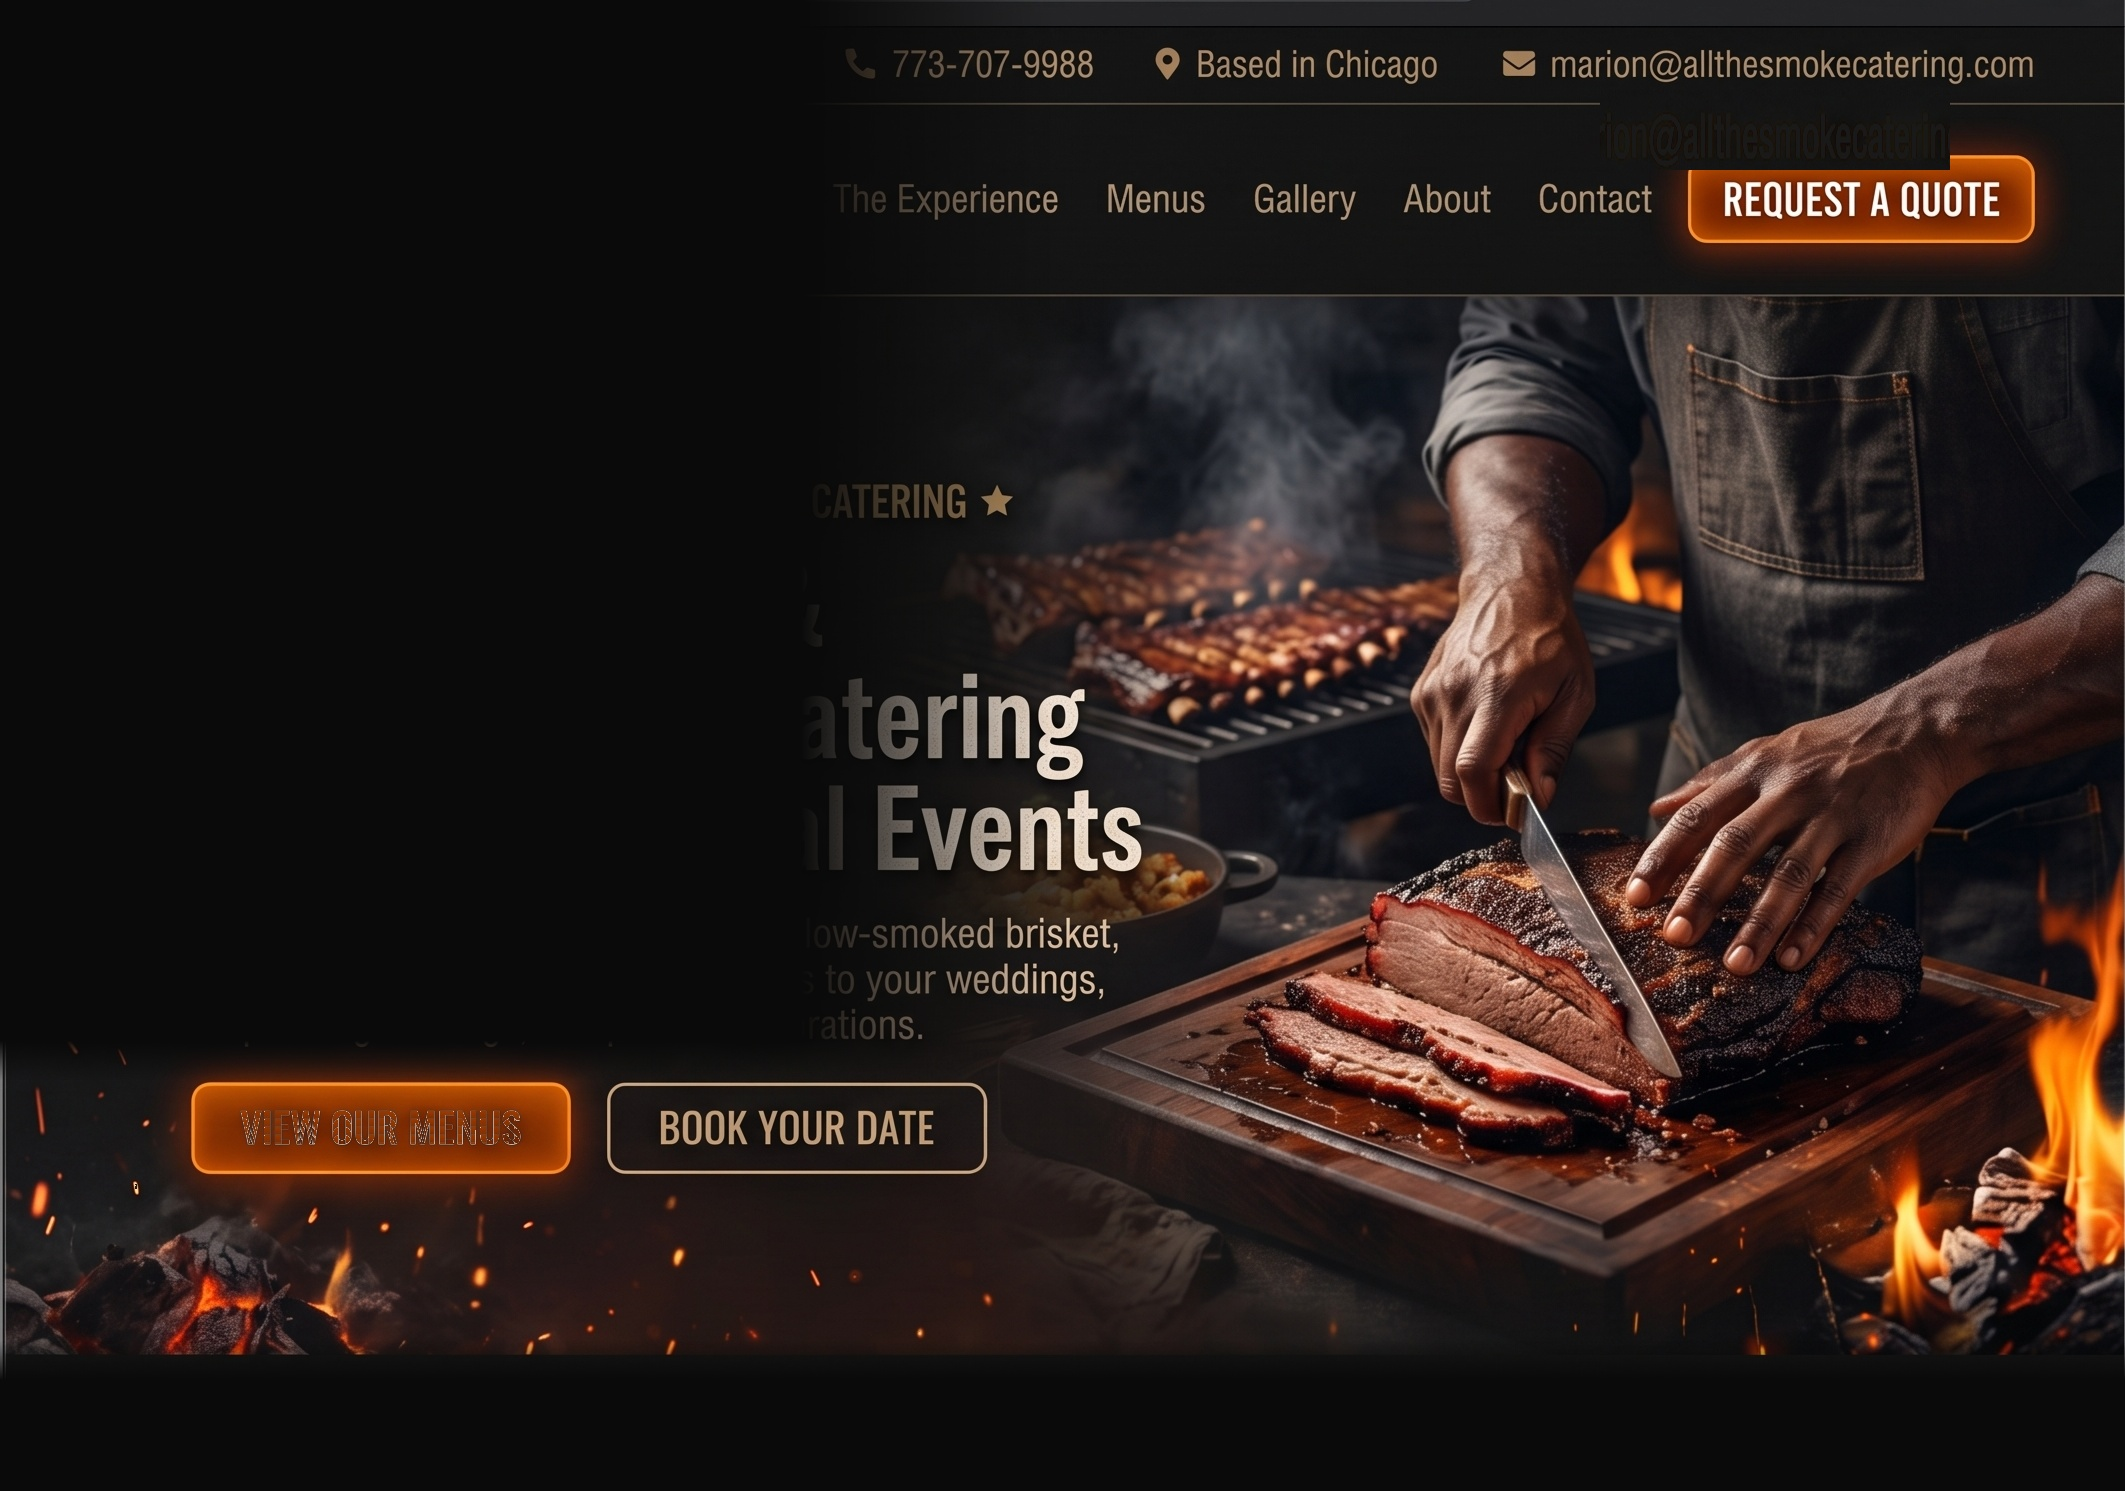
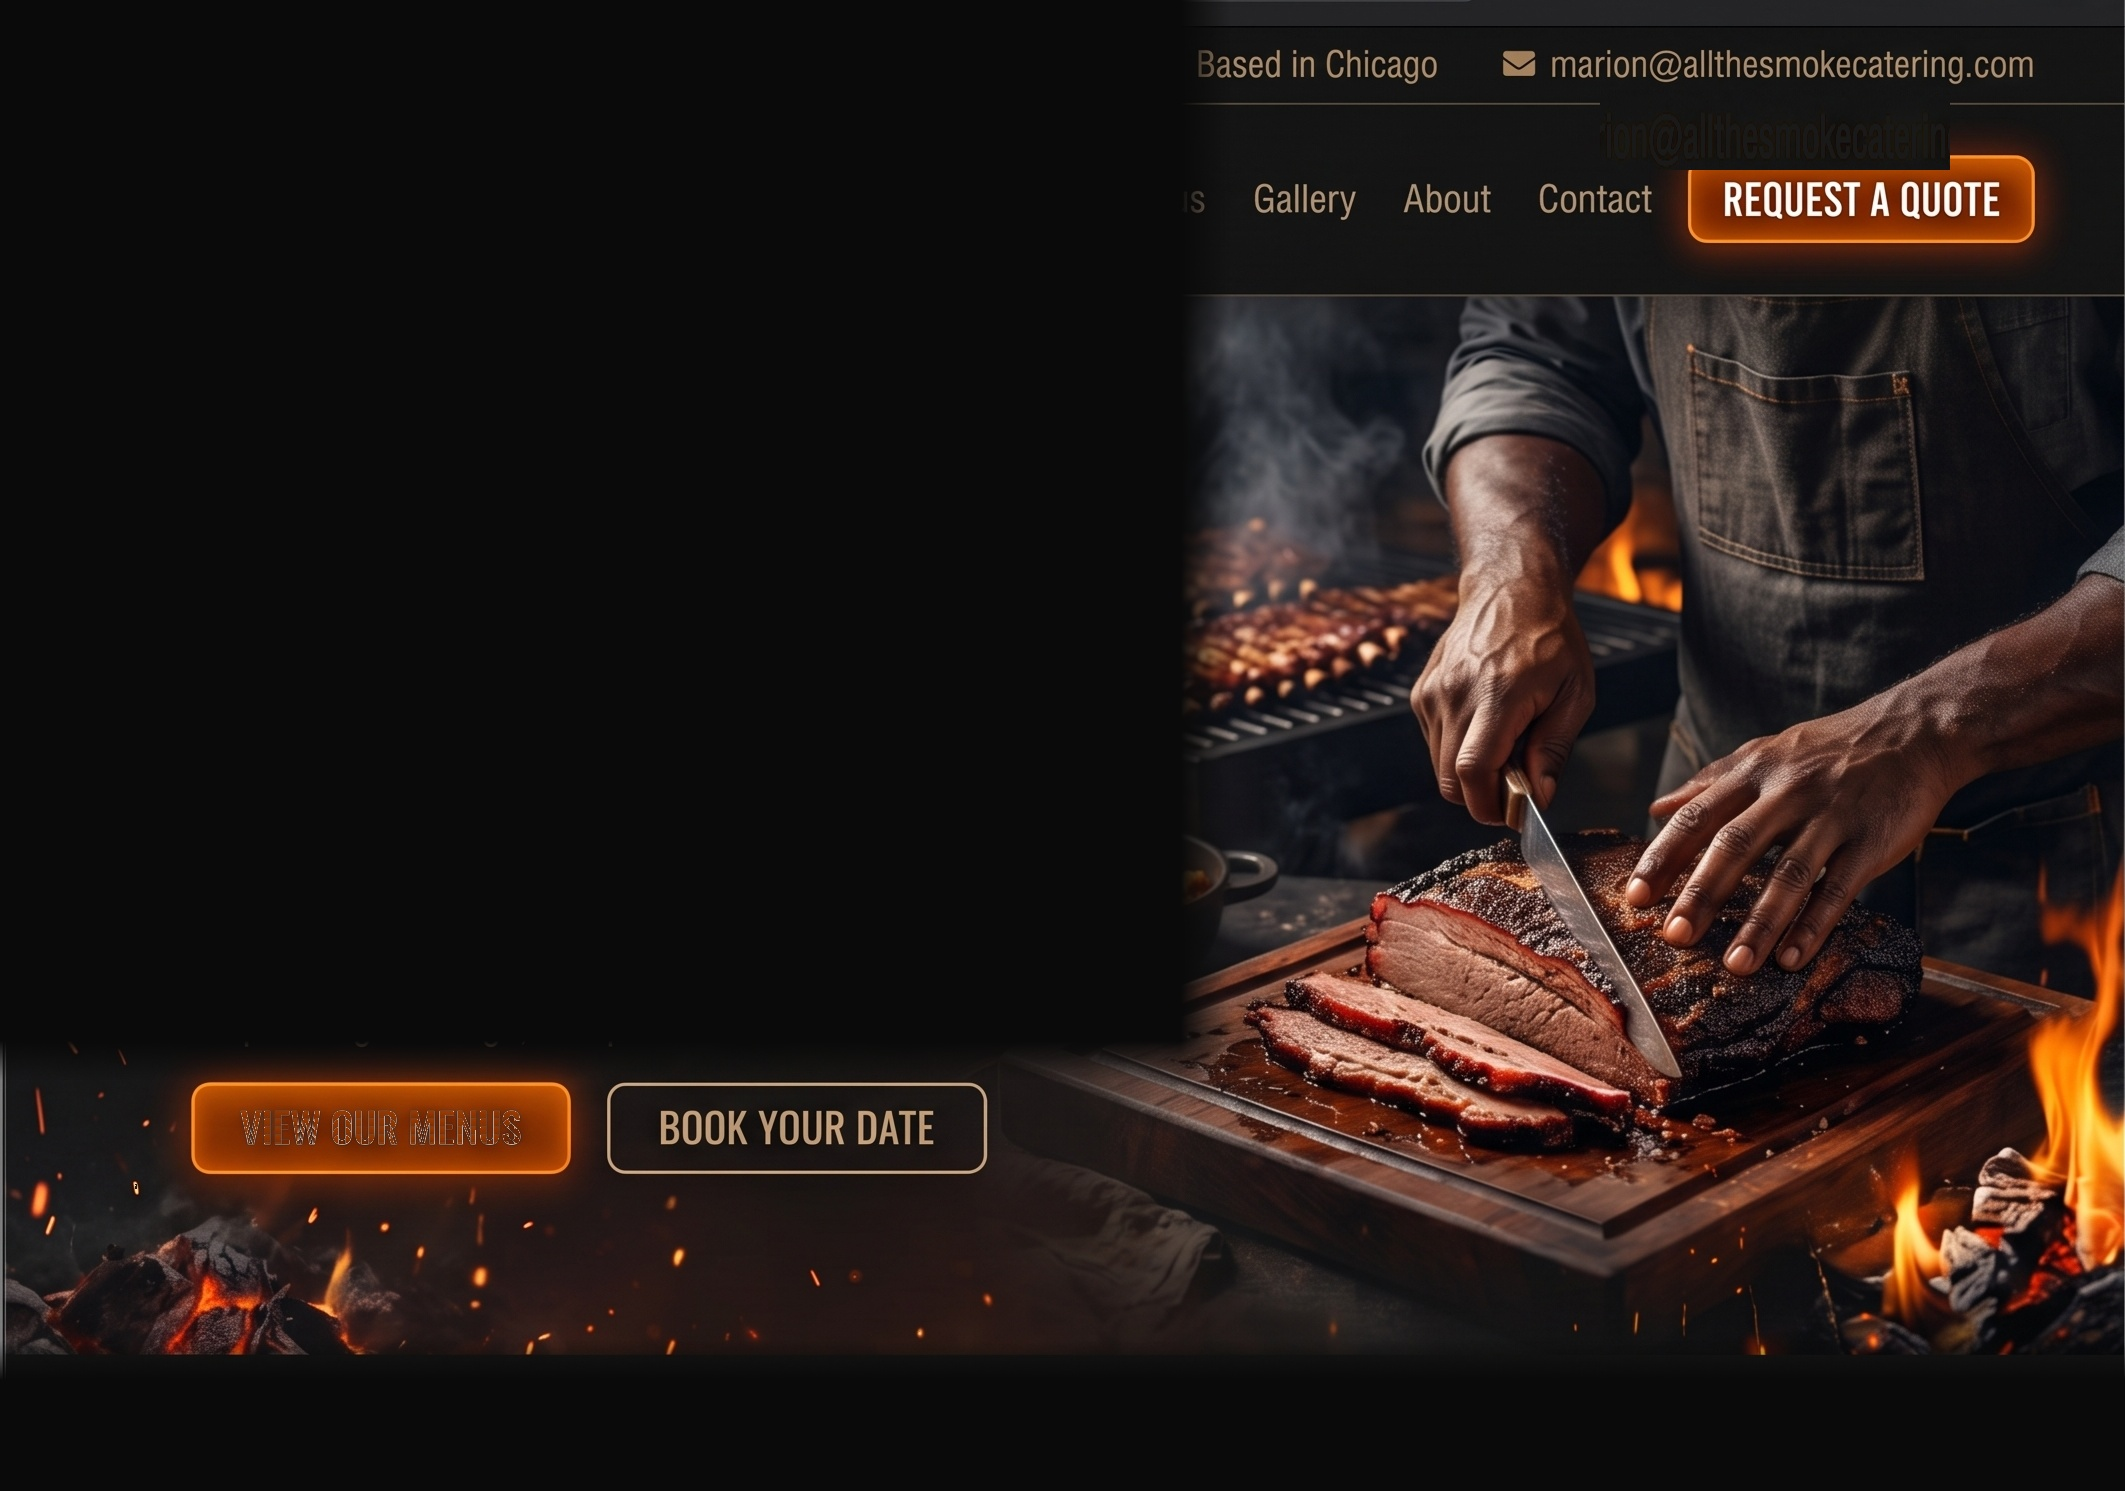
fix: eradicate ghost text behind hero and remove left shading overlay

diff --git a/src/components/home/Hero.tsx b/src/components/home/Hero.tsx
@@ -28,10 +28,7 @@ export function Hero() {
           className="object-cover object-[center_70%] lg:object-[right_bottom]"
         />
 
-        {/* Soft Directional Gradient on Left Side: Protects headline text contrast while letting the right side (brisket, embers, flames) shine at 100% natural saturation & contrast */}
-        <div className="absolute inset-0 bg-gradient-to-r from-[#0A0A0A] via-[#0A0A0A]/85 via-40% to-transparent pointer-events-none" />
       </div>
-
       {/* 2. TOP UTILITY BAR (Phone, Location, Direct Email) */}
       <aside
         aria-label="Service Alert and Dispatch Contacts"
